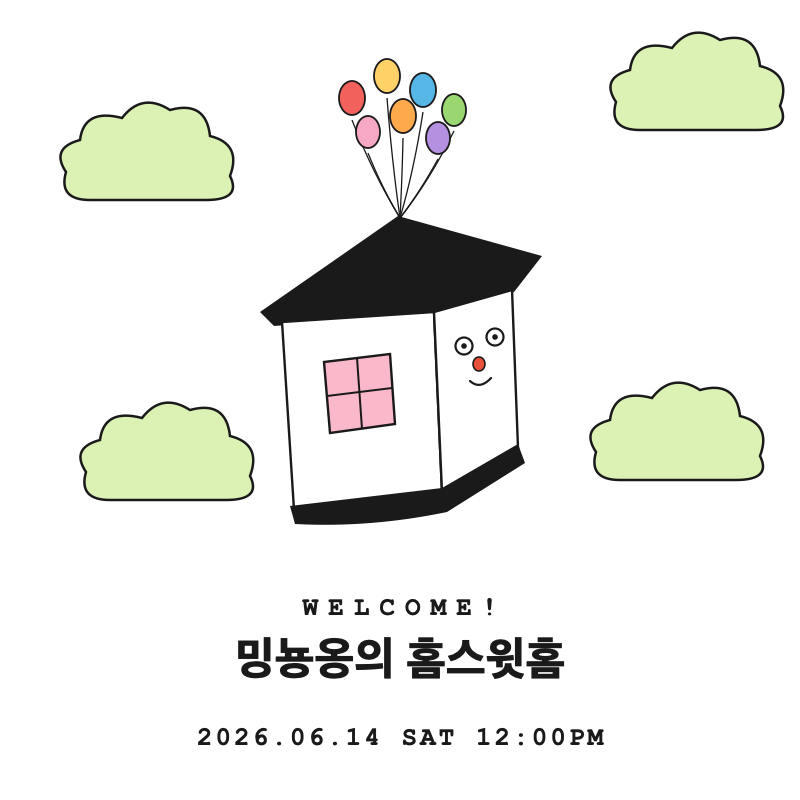
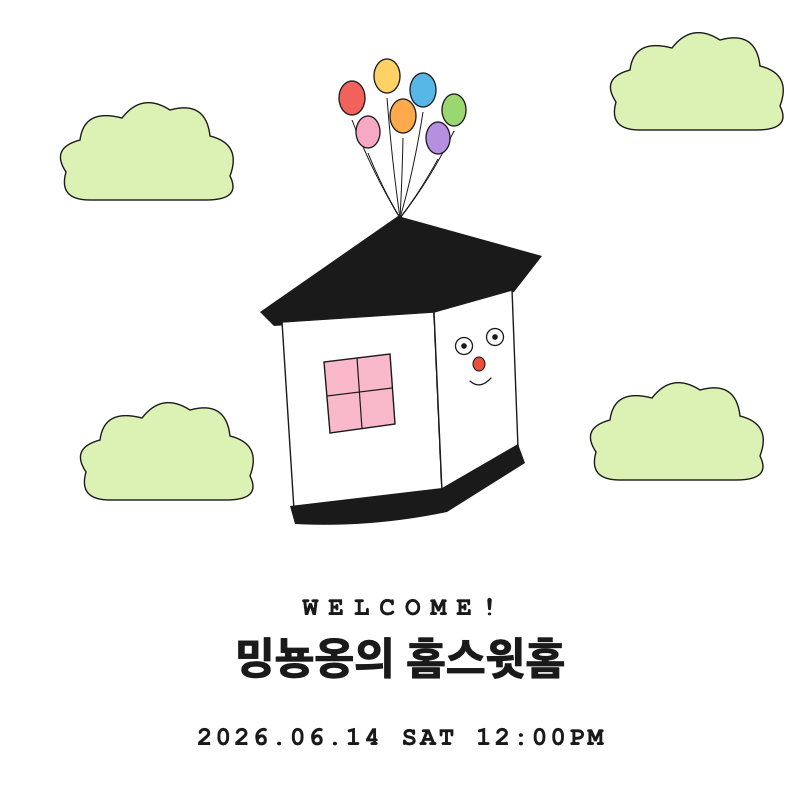
얇은 손그림 선 스타일 + OG 이미지

diff --git a/index.html b/index.html
@@ -144,6 +144,11 @@
     will-change: transform;
   }
   .cloud svg { width: 100%; height: auto; display: block; }
+
+  .cloud svg, .house-wrap svg, .doodle svg, .mini-house svg {
+    filter: url(#wobble);
+    overflow: visible;
+  }
   .cloud-1 { top: 6%;  left: -28px; width: 130px; }
   .cloud-2 { top: 16%; right: -34px; width: 105px; }
   .cloud-3 { bottom: 4%; left: 8%; width: 150px; }
@@ -221,19 +226,17 @@
     gap: 8px;
     margin-top: 26px;
     padding: 13px 30px;
-    border: 1.5px solid var(--ink);
-    border-radius: 999px;
+    border: 1px solid var(--ink);
+    border-radius: 28px 24px 30px 22px / 24px 30px 22px 28px;
     background: #fff;
     color: var(--ink);
     font-family: 'Gowun Dodum', sans-serif;
     font-size: 15.5px;
     text-decoration: none;
-    box-shadow: 2px 2px 0 var(--ink);
-    transition: transform 0.15s ease, box-shadow 0.15s ease;
+    transition: transform 0.15s ease;
   }
   .map-btn:active {
-    transform: translate(2px, 2px);
-    box-shadow: 1px 1px 0 var(--ink);
+    transform: translate(1px, 1px);
   }
   .map-btn .pin { color: #2db400; font-weight: 700; }
 
@@ -241,8 +244,8 @@
     display: inline-block;
     margin-top: 4px;
     padding: 22px 28px;
-    border: 1.5px solid var(--ink);
-    border-radius: 18px;
+    border: 1px solid var(--ink);
+    border-radius: 26px 18px 28px 16px / 18px 28px 16px 26px;
     background: #fffbe9;
     font-size: 16px;
     line-height: 1.9;
@@ -264,8 +267,8 @@
   }
   .guest {
     padding: 9px 20px;
-    border: 1.5px solid var(--ink);
-    border-radius: 999px;
+    border: 1px solid var(--ink);
+    border-radius: 20px 16px 22px 15px / 16px 22px 15px 20px;
     font-size: 15.5px;
     background: #fff;
   }
@@ -288,21 +291,31 @@
 </head>
 <body>
 
+<!-- 손그림 꾸불거림 필터 -->
+<svg width="0" height="0" style="position:absolute" aria-hidden="true">
+  <defs>
+    <filter id="wobble">
+      <feTurbulence type="fractalNoise" baseFrequency="0.022" numOctaves="2" seed="7" result="n"/>
+      <feDisplacementMap in="SourceGraphic" in2="n" scale="3.5"/>
+    </filter>
+  </defs>
+</svg>
+
 <!-- ================= HERO ================= -->
 <section class="hero">
   <div class="welcome reveal on">WELCOME!</div>
 
   <div class="stage">
-    <div class="cloud cloud-1 drift"   data-speed="0.22"><svg viewBox="0 0 100 64" xmlns="http://www.w3.org/2000/svg"><path d="M20 56 Q4 56 8 42 Q0 30 15 26 Q17 10 36 15 Q46 2 60 11 Q78 6 80 24 Q96 28 90 44 Q96 56 78 56 Z" fill="#dcf1b4" stroke="#1a1a1a" stroke-width="2"/></svg></div>
-    <div class="cloud cloud-2 drift-r" data-speed="0.34"><svg viewBox="0 0 100 64" xmlns="http://www.w3.org/2000/svg"><path d="M20 56 Q4 56 8 42 Q0 30 15 26 Q17 10 36 15 Q46 2 60 11 Q78 6 80 24 Q96 28 90 44 Q96 56 78 56 Z" fill="#dcf1b4" stroke="#1a1a1a" stroke-width="2"/></svg></div>
-    <div class="cloud cloud-3 drift-r" data-speed="0.16"><svg viewBox="0 0 100 64" xmlns="http://www.w3.org/2000/svg"><path d="M20 56 Q4 56 8 42 Q0 30 15 26 Q17 10 36 15 Q46 2 60 11 Q78 6 80 24 Q96 28 90 44 Q96 56 78 56 Z" fill="#dcf1b4" stroke="#1a1a1a" stroke-width="2"/></svg></div>
-    <div class="cloud cloud-4 drift"   data-speed="0.28"><svg viewBox="0 0 100 64" xmlns="http://www.w3.org/2000/svg"><path d="M20 56 Q4 56 8 42 Q0 30 15 26 Q17 10 36 15 Q46 2 60 11 Q78 6 80 24 Q96 28 90 44 Q96 56 78 56 Z" fill="#dcf1b4" stroke="#1a1a1a" stroke-width="2"/></svg></div>
+    <div class="cloud cloud-1 drift"   data-speed="0.22"><svg viewBox="0 0 100 64" xmlns="http://www.w3.org/2000/svg"><path d="M20 56 Q4 56 8 42 Q0 30 15 26 Q17 10 36 15 Q46 2 60 11 Q78 6 80 24 Q96 28 90 44 Q96 56 78 56 Z" fill="#dcf1b4" stroke="#1a1a1a" stroke-width="1.2"/></svg></div>
+    <div class="cloud cloud-2 drift-r" data-speed="0.34"><svg viewBox="0 0 100 64" xmlns="http://www.w3.org/2000/svg"><path d="M20 56 Q4 56 8 42 Q0 30 15 26 Q17 10 36 15 Q46 2 60 11 Q78 6 80 24 Q96 28 90 44 Q96 56 78 56 Z" fill="#dcf1b4" stroke="#1a1a1a" stroke-width="1.2"/></svg></div>
+    <div class="cloud cloud-3 drift-r" data-speed="0.16"><svg viewBox="0 0 100 64" xmlns="http://www.w3.org/2000/svg"><path d="M20 56 Q4 56 8 42 Q0 30 15 26 Q17 10 36 15 Q46 2 60 11 Q78 6 80 24 Q96 28 90 44 Q96 56 78 56 Z" fill="#dcf1b4" stroke="#1a1a1a" stroke-width="1.2"/></svg></div>
+    <div class="cloud cloud-4 drift"   data-speed="0.28"><svg viewBox="0 0 100 64" xmlns="http://www.w3.org/2000/svg"><path d="M20 56 Q4 56 8 42 Q0 30 15 26 Q17 10 36 15 Q46 2 60 11 Q78 6 80 24 Q96 28 90 44 Q96 56 78 56 Z" fill="#dcf1b4" stroke="#1a1a1a" stroke-width="1.2"/></svg></div>
 
     <div class="house-wrap" id="houseWrap">
       <svg viewBox="0 0 400 520" xmlns="http://www.w3.org/2000/svg">
         <!-- 풍선 다발 (UP 스타일) -->
         <g class="balloon">
-          <g stroke="#1a1a1a" stroke-width="1.1" fill="none">
+          <g stroke="#1a1a1a" stroke-width="0.9" fill="none">
             <path d="M150 80 Q170 132 198 178"/>
             <path d="M185 58 Q190 122 198 178"/>
             <path d="M221 72 Q212 130 198 178"/>
@@ -311,7 +324,7 @@
             <path d="M236 119 Q218 152 198 178"/>
             <path d="M201 98 Q200 142 198 178"/>
           </g>
-          <g stroke="#1a1a1a" stroke-width="1.5">
+          <g stroke="#1a1a1a" stroke-width="1.1">
             <ellipse cx="201" cy="76" rx="13" ry="17" fill="#ffa94d"/>
             <path d="M197 92 L201 98 L205 92 Z" fill="#ffa94d"/>
             <ellipse cx="150" cy="58" rx="13" ry="17" fill="#f2615c"/>
@@ -331,24 +344,24 @@
         <!-- 집 -->
         <g>
           <!-- 지붕 -->
-          <path d="M58 272 L196 176 L340 216 L312 252 L236 274 L72 286 Z" fill="#1a1a1a" stroke="#1a1a1a" stroke-width="1.5"/>
+          <path d="M58 272 L196 176 L340 216 L312 252 L236 274 L72 286 Z" fill="#1a1a1a" stroke="#1a1a1a" stroke-width="1"/>
           <!-- 왼쪽 면 -->
-          <path d="M80 282 L232 272 L240 452 L92 470 Z" fill="#ffffff" stroke="#1a1a1a" stroke-width="2"/>
+          <path d="M80 282 L232 272 L240 452 L92 470 Z" fill="#ffffff" stroke="#1a1a1a" stroke-width="1.2"/>
           <!-- 오른쪽 면 -->
-          <path d="M232 272 L310 250 L316 408 L240 452 Z" fill="#ffffff" stroke="#1a1a1a" stroke-width="2"/>
+          <path d="M232 272 L310 250 L316 408 L240 452 Z" fill="#ffffff" stroke="#1a1a1a" stroke-width="1.2"/>
           <!-- 바닥 그림자 -->
           <path d="M88 466 L240 448 L316 404 L323 423 L245 472 Q168 488 93 484 Z" fill="#1a1a1a"/>
           <!-- 분홍 창문 -->
-          <path d="M122 322 L188 314 L193 384 L128 393 Z" fill="#f9b9cb" stroke="#1a1a1a" stroke-width="2"/>
-          <line x1="155" y1="318" x2="160" y2="389" stroke="#1a1a1a" stroke-width="1.6"/>
-          <line x1="125" y1="356" x2="190" y2="348" stroke="#1a1a1a" stroke-width="1.6"/>
+          <path d="M122 322 L188 314 L193 384 L128 393 Z" fill="#f9b9cb" stroke="#1a1a1a" stroke-width="1.2"/>
+          <line x1="155" y1="318" x2="160" y2="389" stroke="#1a1a1a" stroke-width="1"/>
+          <line x1="125" y1="356" x2="190" y2="348" stroke="#1a1a1a" stroke-width="1"/>
           <!-- 얼굴 -->
-          <circle cx="262" cy="306" r="8.5" fill="#fff" stroke="#1a1a1a" stroke-width="1.8"/>
+          <circle cx="262" cy="306" r="8.5" fill="#fff" stroke="#1a1a1a" stroke-width="1.1"/>
           <circle cx="262" cy="306" r="2.8" fill="#1a1a1a"/>
-          <circle cx="293" cy="297" r="8.5" fill="#fff" stroke="#1a1a1a" stroke-width="1.8"/>
+          <circle cx="293" cy="297" r="8.5" fill="#fff" stroke="#1a1a1a" stroke-width="1.1"/>
           <circle cx="293" cy="297" r="2.8" fill="#1a1a1a"/>
-          <ellipse cx="277" cy="324" rx="6" ry="7" fill="#e8503a" stroke="#1a1a1a" stroke-width="1.3"/>
-          <path d="M268 341 Q278 350 289 338" fill="none" stroke="#1a1a1a" stroke-width="1.8" stroke-linecap="round"/>
+          <ellipse cx="277" cy="324" rx="6" ry="7" fill="#e8503a" stroke="#1a1a1a" stroke-width="1"/>
+          <path d="M268 341 Q278 350 289 338" fill="none" stroke="#1a1a1a" stroke-width="1.1" stroke-linecap="round"/>
         </g>
       </svg>
     </div>
@@ -379,12 +392,12 @@
 
 <div class="doodle reveal">
   <svg viewBox="0 0 60 50" xmlns="http://www.w3.org/2000/svg" style="width:44px">
-    <line x1="14" y1="24" x2="20" y2="46" stroke="#1a1a1a" stroke-width="1.1"/>
-    <line x1="30" y1="28" x2="29" y2="46" stroke="#1a1a1a" stroke-width="1.1"/>
-    <line x1="45" y1="24" x2="38" y2="46" stroke="#1a1a1a" stroke-width="1.1"/>
-    <ellipse cx="14" cy="14" rx="8" ry="10" fill="#56b7e6" stroke="#1a1a1a" stroke-width="1.4"/>
-    <ellipse cx="31" cy="17" rx="8" ry="10" fill="#ffd166" stroke="#1a1a1a" stroke-width="1.4"/>
-    <ellipse cx="46" cy="13" rx="8" ry="10" fill="#f2615c" stroke="#1a1a1a" stroke-width="1.4"/>
+    <line x1="14" y1="24" x2="20" y2="46" stroke="#1a1a1a" stroke-width="0.9"/>
+    <line x1="30" y1="28" x2="29" y2="46" stroke="#1a1a1a" stroke-width="0.9"/>
+    <line x1="45" y1="24" x2="38" y2="46" stroke="#1a1a1a" stroke-width="0.9"/>
+    <ellipse cx="14" cy="14" rx="8" ry="10" fill="#56b7e6" stroke="#1a1a1a" stroke-width="1"/>
+    <ellipse cx="31" cy="17" rx="8" ry="10" fill="#ffd166" stroke="#1a1a1a" stroke-width="1"/>
+    <ellipse cx="46" cy="13" rx="8" ry="10" fill="#f2615c" stroke="#1a1a1a" stroke-width="1"/>
   </svg>
 </div>
 
@@ -413,7 +426,7 @@
 
 <div class="doodle reveal">
   <svg viewBox="0 0 100 64" xmlns="http://www.w3.org/2000/svg" style="width:46px">
-    <path d="M20 56 Q4 56 8 42 Q0 30 15 26 Q17 10 36 15 Q46 2 60 11 Q78 6 80 24 Q96 28 90 44 Q96 56 78 56 Z" fill="#dcf1b4" stroke="#1a1a1a" stroke-width="2"/>
+    <path d="M20 56 Q4 56 8 42 Q0 30 15 26 Q17 10 36 15 Q46 2 60 11 Q78 6 80 24 Q96 28 90 44 Q96 56 78 56 Z" fill="#dcf1b4" stroke="#1a1a1a" stroke-width="1.2"/>
   </svg>
 </div>
 
@@ -432,8 +445,8 @@
 
 <div class="doodle reveal">
   <svg viewBox="0 0 34 46" xmlns="http://www.w3.org/2000/svg">
-    <line x1="17" y1="26" x2="18" y2="44" stroke="#1a1a1a" stroke-width="1.1"/>
-    <ellipse cx="17" cy="15" rx="9" ry="12" fill="#f7a8c4" stroke="#1a1a1a" stroke-width="1.4"/>
+    <line x1="17" y1="26" x2="18" y2="44" stroke="#1a1a1a" stroke-width="0.9"/>
+    <ellipse cx="17" cy="15" rx="9" ry="12" fill="#f7a8c4" stroke="#1a1a1a" stroke-width="1"/>
   </svg>
 </div>
 
@@ -469,8 +482,8 @@
   <div class="mini-house">
     <svg viewBox="0 0 60 56" xmlns="http://www.w3.org/2000/svg">
       <path d="M8 24 L30 8 L52 24 L46 26 L14 26 Z" fill="#1a1a1a"/>
-      <rect x="14" y="26" width="32" height="24" fill="#fff" stroke="#1a1a1a" stroke-width="1.5"/>
-      <rect x="22" y="32" width="12" height="11" fill="#f9b9cb" stroke="#1a1a1a" stroke-width="1.2"/>
+      <rect x="14" y="26" width="32" height="24" fill="#fff" stroke="#1a1a1a" stroke-width="1"/>
+      <rect x="22" y="32" width="12" height="11" fill="#f9b9cb" stroke="#1a1a1a" stroke-width="0.9"/>
     </svg>
   </div>
   SEE YOU SOON 🤍
